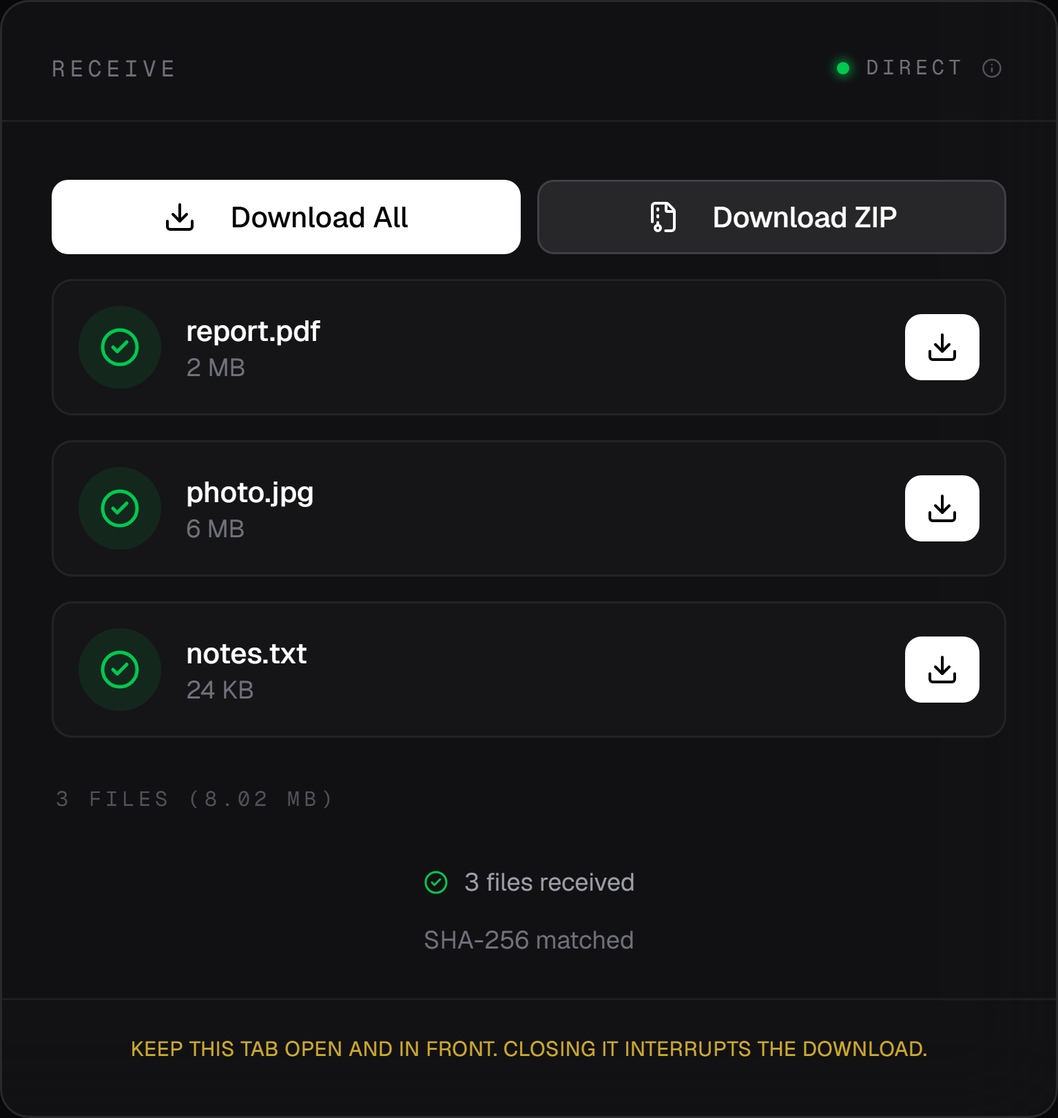
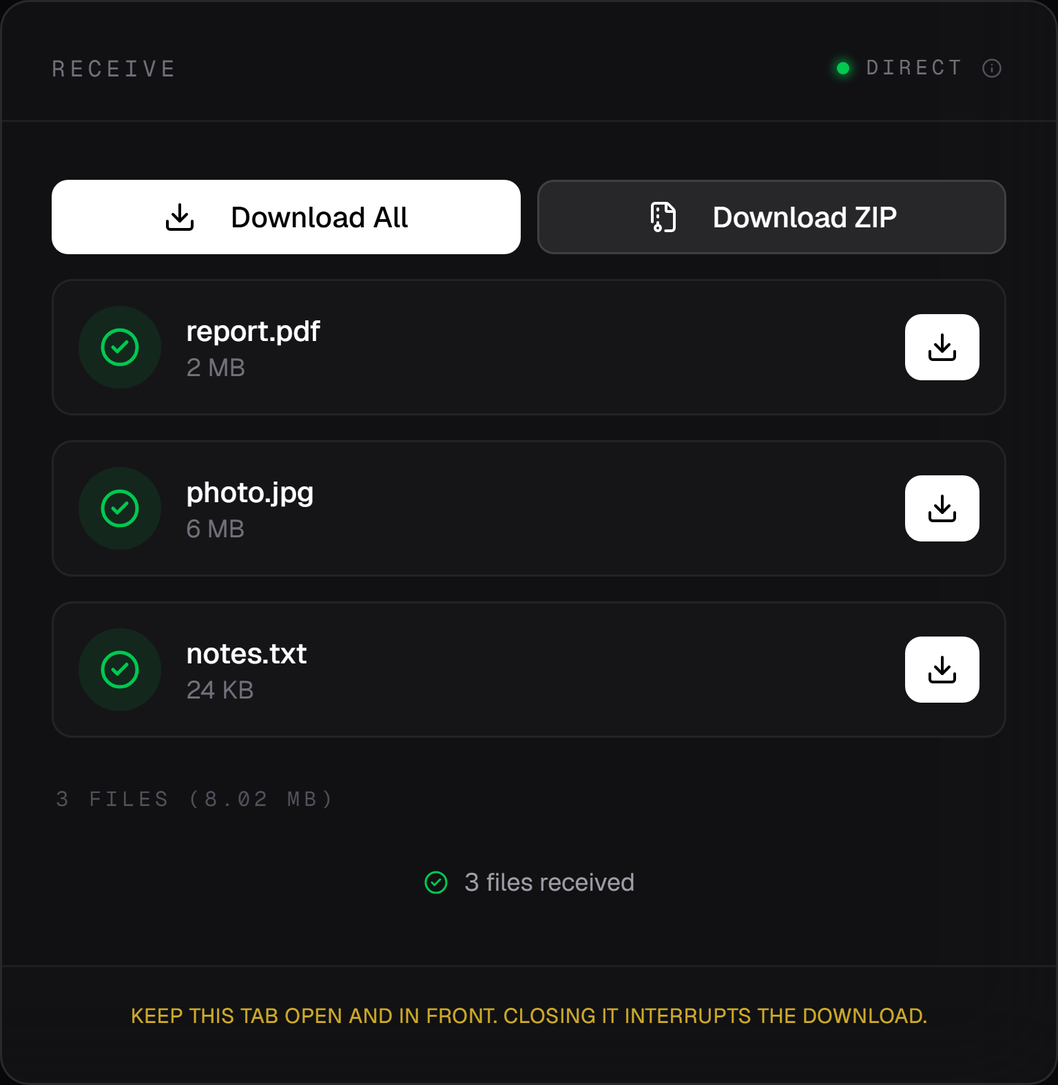
feat(client): let the check mark say SHA-256 matched on the send and receive cards (#652)
## Summary

- **The check mark carries "SHA-256 matched" on the web app's main page.** The receive card's "N files received" and the Send page's "All Files Sent!" used to draw a green check on every finished transfer, with a gray line "SHA-256 matched" under it when every file verified. They now follow Floe Desktop's rule (D-161): a green circle-check (`data-mark="verified"`) when every file's SHA-256 matched, a gray plain check (`data-mark="plain"`) when the transfer finished with some file checked by size only. The words stay for screen readers as an sr-only block of their own, outside the count line, so the audit's anchored regex on that line and its `readVerifiedLine` evidence (the card's innerText) both still read what they read before.
- **The Send page.** "All Files Sent!" turns green with its check when the receiver's `received` report lands, usually a moment after the last byte leaves; with a receiver that sends no report (floe before 1.11.0, a web app 1.11.1 or earlier) it stays gray. `verifiedLineShown` still decides it from the latched send end. Known change: under "Connection interrupted" after delivery the status has no icon, so the visible green check goes with it (the words remain for screen readers); sending.mdx and the self-hosting table say so.
[…]

diff --git a/client/components/ShareLinkPanel.tsx b/client/components/ShareLinkPanel.tsx
@@ -11,11 +11,12 @@ interface ShareLinkPanelProps {
     onToggleQr: () => void;
     status: string;
     // 'SHA-256 matched' once the receiver reported every file verified, else
-    // null. Never a digest value, and never a count (D-101).
+    // null. Never a digest value, and never a count (D-101). It picks the
+    // check beside the status and is read to screen readers; it is not drawn.
     verifiedLine: string | null;
     // How the send ended, latched by the page (lib/sendSummary.ts). The
-    // verified line follows it, because the status sentence is rewritten
-    // after a finished send and the line must not go with it.
+    // verified words follow it, because the status sentence is rewritten
+    // after a finished send and the words must not go with it.
     sendEnd: SendEnd;
 }
 
@@ -39,6 +40,15 @@ export function ShareLinkPanel({
     // A status that has ended does not spin: the spinner beside it said the
     // page was still working on something, under a banner saying it was not.
     const hasEnded = shareStatusEnded(status);
+    // Gated on the send's own latched end, not on the report alone.
+    // onDelivered fires on ANY received frame, and the session's received arm
+    // runs whenever one arrives, so a peer that confirms delivery early could
+    // otherwise mark a send while the page still says 'Sending: x', and the
+    // mark would then sit over a freshly created link until the next peer
+    // joined. The peer picks the moment, so the moment is not something to
+    // render on. Not gated on the status sentence either: see
+    // verifiedLineShown.
+    const verified = verifiedLineShown({ verifiedLine, end: sendEnd });
 
     return (
         <div className="rounded-xl bg-black/40 p-4 border border-white/[0.08] mb-4">
@@ -109,8 +119,19 @@ export function ShareLinkPanel({
             )}
 
             <div className="mt-3 flex w-full items-center justify-center gap-2 text-xs transition-colors duration-300">
+                {/* The desktop's rule (D-161): green only once the receiver
+                    reported every file's SHA-256 matched, a gray plain check
+                    for a send that finished without that report. A browser
+                    sender says "All Files Sent!" when the last byte leaves,
+                    and the report lands after it, so a current receiver turns
+                    the gray check green a moment later; an older one never
+                    does. */}
                 {isComplete ? (
-                    <CheckCircle2 className="h-3 w-3 shrink-0 text-green-400" />
+                    verified ? (
+                        <CheckCircle2 data-mark="verified" className="h-3 w-3 shrink-0 text-green-400" />
+                    ) : (
+                        <Check data-mark="plain" className="h-3 w-3 shrink-0 text-zinc-500" />
+                    )
                 ) : hasEnded ? null : (
                     <Loader2 className="h-3 w-3 shrink-0 animate-spin text-zinc-500" />
                 )}
@@ -119,27 +140,20 @@ export function ShareLinkPanel({
                     212 and 241 px in 12 px Geist, 320 to 430 wide). Two lines
                     at most, so a long name in "Sending: <name>" still stops. */}
                 <span
-                    className={`min-w-0 line-clamp-2 break-words text-balance text-center ${isComplete ? 'text-green-400 font-medium' : 'text-zinc-500'}`}
+                    className={`min-w-0 line-clamp-2 break-words text-balance text-center ${isComplete ? (verified ? 'text-green-400 font-medium' : 'text-zinc-300 font-medium') : 'text-zinc-500'}`}
                 >
                     {status}
                 </span>
             </div>
 
-            {/* A sibling of the status line, not part of it: the audit anchors
-                on the sender's completion status as its own text, and that
-                string must stay byte for byte what it is.
-
-                Gated on the send's own latched end, not on the report alone.
-                onDelivered fires on ANY received frame, and the session's
-                received arm runs whenever one arrives, so a peer that confirms
-                delivery early could otherwise paint this line while the page
-                still says 'Sending: x', and it would then sit over a freshly
-                created link until the next peer joined. The peer picks the
-                moment, so the moment is not something to render on. Not gated
-                on the status sentence either: see verifiedLineShown. */}
-            {verifiedLineShown({ verifiedLine, end: sendEnd }) && (
-                <p className="mt-1 text-center text-xs text-zinc-500">{verifiedLine}</p>
-            )}
+            {/* The words the green check stands for, for screen readers only:
+                it was a visible line until the check carried it. A sibling of
+                the status line, not part of it: the audit anchors on the
+                sender's completion status as its own text, and that string
+                must stay byte for byte what it is. It stays when a finished
+                send's status is rewritten, as the report it reads does; the
+                check goes with the status's own mark. */}
+            {verified && <p className="sr-only">{verifiedLine}</p>}
         </div>
     );
 }

diff --git a/client/e2e/partial-receive.spec.ts b/client/e2e/partial-receive.spec.ts
@@ -34,6 +34,10 @@ const MIB = 1024 * 1024;
 interface Step {
     announced: number;
     sent: number;
+    // false: the end marker carries no SHA-256, as from a floe older than
+    // 1.11.0 or a browser whose hash was not ready, so the file is checked
+    // by size only.
+    hash?: boolean;
 }
 
 interface Rig {
@@ -166,7 +170,9 @@ async function sendSteps(sender: Page, steps: Step[]): Promise<void> {
             }
             await drained(0);
             if (step.sent < step.announced) return;
-            peer.send(w.floeLoopback.endMessage(hex(await crypto.subtle.digest('SHA-256', body))));
+            peer.send(w.floeLoopback.endMessage(
+                step.hash === false ? null : hex(await crypto.subtle.digest('SHA-256', body)),
+            ));
         }
         await drained(0);
     }, { steps });
@@ -192,8 +198,10 @@ test('a sender that vanishes during file 2 of 3 does not leave the receiver look
         await expect(
             rig.receiver.getByText('Received 1 of 3 files. The transfer ended before the rest arrived.'),
         ).toBeVisible();
-        // No completion line, so no green check: the two are one element.
+        // No completion line, so no check of either kind: the two are one
+        // element.
         await expect(rig.receiver.getByText(/^\d+ files? received$/)).toHaveCount(0);
+        await expect(rig.receiver.locator('[data-mark]')).toHaveCount(0);
         // The row for the file that never finished is gone with it.
         await expect(rig.receiver.getByRole('progressbar')).toHaveCount(0);
         // What did arrive is still there to download.
@@ -214,7 +222,11 @@ test('a full receive still ends on the completion line, before and after the sen
         ]);
 
         await expect(rig.receiver.getByText(/^3 files received$/)).toBeVisible();
-        await expect(rig.receiver.getByText('SHA-256 matched', { exact: true })).toBeVisible();
+        // Every file matched: the green check in front of the count line,
+        // and the words for screen readers only (the desktop's rule).
+        await expect(rig.receiver.locator('[data-mark="verified"]')).toBeVisible();
+        await expect(rig.receiver.locator('[data-mark="plain"]')).toHaveCount(0);
+        await expect(rig.receiver.getByText('SHA-256 matched', { exact: true })).toHaveClass('sr-only');
         await expect(rig.receiver.locator('a[download]')).toHaveCount(3);
 
         // eslint-disable-next-line @typescript-eslint/no-explicit-any
@@ -227,6 +239,26 @@ test('a full receive still ends on the completion line, before and after the sen
         await expect(rig.receiver.getByText(/^3 files received$/)).toBeVisible();
         await expect(rig.receiver.getByText(/The transfer ended before the rest arrived/)).toHaveCount(0);
         expect(rig.statsReports(), 'the opted-out receiver reported stats').toBe(0);
+    } finally {
+        await rig.close();
+    }
+});
+
+test('a full receive with a file checked by size only ends on the gray check', async ({ browser }) => {
+    const rig = await openRig(browser, randomUUID());
+    try {
+        await sendSteps(rig.sender, [
+            { announced: KIB, sent: KIB },
+            { announced: KIB, sent: KIB, hash: false },
+        ]);
+
+        // Every file arrived, so the count line is the complete one, but one
+        // came with no SHA-256: the gray plain check, and no words at all.
+        await expect(rig.receiver.getByText(/^2 files received$/)).toBeVisible();
+        await expect(rig.receiver.locator('[data-mark="plain"]')).toBeVisible();
+        await expect(rig.receiver.locator('[data-mark="verified"]')).toHaveCount(0);
+        await expect(rig.receiver.getByText('SHA-256 matched', { exact: true })).toHaveCount(0);
+        await expect(rig.receiver.locator('a[download]')).toHaveCount(2);
     } finally {
         await rig.close();
     }

diff --git a/client/components/ReceiverPanel.tsx b/client/components/ReceiverPanel.tsx
@@ -1,5 +1,5 @@
 import type { RefObject } from 'react';
-import { AlertTriangle, CheckCircle2, Circle, Download, FileArchive, Loader2 } from 'lucide-react';
+import { AlertTriangle, Check, CheckCircle2, Circle, Download, FileArchive, Loader2 } from 'lucide-react';
 import { Button } from '@/components/ui/button';
 import { StatsContributionToggle } from '@/components/StatsContributionToggle';
 import { ReceivedFilesList } from '@/components/ReceivedFilesList';
@@ -29,7 +29,8 @@ interface ReceiverPanelProps {
     onSaved: (ids: readonly string[]) => void;
     listRef: RefObject<HTMLDivElement | null>;
     // 'SHA-256 matched' once every announced file arrived and every one of them
-    // verified, else null. Never a digest value (D-101).
+    // verified, else null. Never a digest value (D-101). It picks the check in
+    // front of the count line and is read to screen readers; it is not drawn.
     verifiedLine: string | null;
     // The count line and whether it may carry the check: complete, still
     // waiting on files, or ended short. See lib/receiveSummary.ts.
@@ -205,7 +206,17 @@ export function ReceiverPanel({
                 </div>
             ) : summary.kind === 'complete' ? (
                 <div className="flex w-full items-center justify-center gap-2 text-xs text-zinc-400 pt-2">
-                    <CheckCircle2 className="h-3 w-3 shrink-0 text-green-500" />
+                    {/* The desktop's rule (D-161): a green circle-check only
+                        when every file's SHA-256 matched, a gray plain check
+                        for a receive that finished with some file checked by
+                        size only. The file rows above keep their green
+                        circles: those say a file is here, not that it was
+                        hashed. */}
+                    {verifiedLine ? (
+                        <CheckCircle2 data-mark="verified" className="h-3 w-3 shrink-0 text-green-500" />
+                    ) : (
+                        <Check data-mark="plain" className="h-3 w-3 shrink-0 text-zinc-500" />
+                    )}
                     <span>{summary.text}</span>
                 </div>
             ) : summary.kind === 'waiting' && (
@@ -215,14 +226,14 @@ export function ReceiverPanel({
                 </div>
             )}
 
-            {/* Its own block element, never a second span inside the completion
-                line above: the audit's TEXT.received is the anchored regex
+            {/* The words the green check stands for, for screen readers only:
+                it was a visible line until the check carried it. Its own block
+                element, never a second span inside the completion line above:
+                the audit's TEXT.received is the anchored regex
                 /^(\d+) files? received$/ against innerText, so anything sharing
                 that line breaks it. */}
             {verifiedLine && !busy && receivedFiles.length > 0 && (
-                <div className="flex w-full items-center justify-center gap-2 text-xs text-zinc-500">
-                    <span>{verifiedLine}</span>
-                </div>
+                <p className="sr-only">{verifiedLine}</p>
             )}
         </div>
     );

diff --git a/client/e2e/cli-interop.spec.ts b/client/e2e/cli-interop.spec.ts
@@ -71,10 +71,13 @@ test('Direction 1: CLI send → browser receive (SHA-256 integrity)', async ({ b
         expect(body).not.toMatch(/did not match what was sent|could not be read/i);
 
         // And the page now says so: every handed-over file verified, so the
-        // success line shows under the completion line. The transient
-        // "Verifying file 1 of 1" is deliberately not asserted; for a 12 MB
-        // file the check is milliseconds and the assertion would flake.
-        await expect(page.locator('body')).toContainText('SHA-256 matched', { timeout: 15_000 });
+        // completion line carries the green check, with the words for screen
+        // readers only. The transient "Verifying file 1 of 1" is deliberately
+        // not asserted; for a 12 MB file the check is milliseconds and the
+        // assertion would flake.
+        await expect(page.locator('[data-mark="verified"]')).toBeVisible({ timeout: 15_000 });
+        await expect(page.locator('[data-mark="plain"]')).toHaveCount(0);
+        await expect(page.locator('main')).toContainText('SHA-256 matched');
 
         // The page's acks promise `received` (SG-01), so the CLI waits for
         // that word, not a drained buffer, and ends on it in success with the
@@ -132,11 +135,22 @@ test('Direction 2: browser send → CLI receive (SHA-256 integrity)', async ({ b
         // The CLI receiver's `received` frame carries verified=1 and now
         // reaches the page, because the session listener outlives onAllSent
         // (F-SHA-4). Before this the finally closed the channel first. The
-        // line follows the delivered send, not the status sentence, so it
-        // is there under all three endings. It used to be gated on the two
-        // sentences that say the send is complete, and under 'Connection
-        // interrupted' it went away while the rows above still read sent.
+        // words follow the delivered send, not the status sentence, so they
+        // are there (for screen readers) under all three endings. They used
+        // to be gated on the two sentences that say the send is complete,
+        // and under 'Connection interrupted' they went away while the rows
+        // above still read sent.
         await expect(page.getByText('SHA-256 matched', { exact: true })).toBeVisible({ timeout: 15_000 });
+        // A verified send never shows the gray check, whichever ending
+        // stayed. The green one sits beside the two endings that say the
+        // send is complete; 'Connection interrupted' has no mark of its own.
+        await expect(page.locator('[data-mark="plain"]')).toHaveCount(0);
+        await expect
+            .poll(async () => {
+                if (/Connection interrupted/.test(await page.locator('main').innerText())) return 'interrupted';
+                return (await page.locator('[data-mark="verified"]').count()) === 1 ? 'verified' : 'none';
+            })
+            .not.toBe('none');
         const ending = (await page.locator('body').innerText()).match(
             /All Files Sent!|Transfer complete|Connection interrupted/
         );

diff --git a/client/lib/sendSummary.ts b/client/lib/sendSummary.ts
@@ -76,18 +76,21 @@ export function shareStatusEnded(status: string): boolean {
 }
 
 /**
- * Whether "SHA-256 matched" shows under the status line.
+ * Whether the send counts as verified: the status line's check is the green
+ * circle-check rather than the gray plain one, and "SHA-256 matched" is read
+ * to screen readers under it.
  *
  * It is the receiver's report about a send this page delivered, so it follows
  * the latched end of the send and not the status sentence. Gated on the
- * sentence, the line vanished when a finished send's status became
- * "Connection interrupted" (the other device dropped off the network after
- * every byte had left), while the rows above still read sent.
+ * sentence, the words (a visible line then) vanished when a finished send's
+ * status became "Connection interrupted" (the other device dropped off the
+ * network after every byte had left), while the rows above still read sent.
+ * The check itself belongs to the status's own mark and goes with it there.
  *
  * `delivered` is this page's own engine saying every file left (onAllSent).
  * The report alone is not enough: a peer picks the moment it sends one, and a
- * peer that confirmed early would otherwise paint the line over a send still
- * in progress, or over a fresh link waiting for its next recipient.
+ * peer that confirmed early would otherwise mark a send still in progress, or
+ * a fresh link waiting for its next recipient.
  */
 export function verifiedLineShown(input: { verifiedLine: string | null; end: SendEnd }): boolean {
     return input.verifiedLine !== null && input.end === 'delivered';

diff --git a/client/lib/verifiedLine.test.ts b/client/lib/verifiedLine.test.ts
@@ -1,4 +1,6 @@
 import { describe, it, expect } from 'vitest';
+import { readFileSync } from 'node:fs';
+import { fileURLToPath } from 'node:url';
 import { verifiedLine, VERIFIED_LINE } from './verifiedLine';
 
 describe('verifiedLine', () => {
@@ -24,4 +26,23 @@ describe('verifiedLine', () => {
         // A partial receive proves nothing about the files that never came.
         expect(verifiedLine([{ verified: true }], 2)).toBe(null);
     });
+});
+
+// The check mark carries the words on both cards (the desktop's rule, D-161):
+// a green circle-check when every file matched, a gray plain check when the
+// transfer finished without that, and the words for screen readers only. The
+// e2e specs find the two marks by data-mark.
+describe('the check carries the words on both cards', () => {
+    const read = (rel: string) => readFileSync(fileURLToPath(new URL(rel, import.meta.url)), 'utf8');
+
+    for (const card of ['ReceiverPanel.tsx', 'ShareLinkPanel.tsx']) {
+        it(`${card} draws a green or a gray check and never the words`, () => {
+            const src = read(`../components/${card}`);
+            expect(src).toMatch(/<CheckCircle2 data-mark="verified" className="[^"]*text-green-[45]00"/);
+            expect(src).toMatch(/<Check data-mark="plain" className="[^"]*text-zinc-500"/);
+            // The words are rendered in exactly one place, and it is sr-only.
+            expect(src.match(/\{verifiedLine\}/g)).toHaveLength(1);
+            expect(src).toContain('<p className="sr-only">{verifiedLine}</p>');
+        });
+    }
 });

diff --git a/client/components/layout/FAQSection.tsx b/client/components/layout/FAQSection.tsx
@@ -231,10 +231,10 @@ export const FAQSection = () => {
                             than 0.3.0 provides none, and a browser sending a very large file can
                             finish sending it before its SHA-256 is ready, and then ends that file
                             without one. A file that does not match is discarded instead of saved. When
-                            every file matched, the browser and the CLI show
-                            &quot;SHA-256 matched&quot; and Floe Desktop shows a green check mark.
-                            Without it, at least one file was checked by size only, or the transfer stopped
-                            partway. The sender sees the mark only when the receiver reports back
+                            every file matched, the CLI shows &quot;SHA-256 matched&quot;, and the
+                            browser and Floe Desktop show a green check mark. A gray check mark, or
+                            none, means at least one file was checked by size only, or the transfer
+                            stopped partway. The sender sees the mark only when the receiver reports back
                             that every file matched. A match means the file arrived intact, not that it
                             is safe to open: Floe does not scan files for malware. What the check
                             proves is in{' '}

diff --git a/client/lib/verifiedLine.ts b/client/lib/verifiedLine.ts
@@ -1,13 +1,15 @@
-// The web success line for a verified transfer, D-101: 'SHA-256 matched' and
-// never a digest value. Pure, with a .test.ts sibling, the receiverClose.ts
-// pattern. `verified` is a LOCAL boolean per file (receiver.ts sets it from its
+// The web's words for a verified transfer, D-101: 'SHA-256 matched' and never
+// a digest value. Since the check mark took over from the visible line (the
+// desktop's rule, D-161), the words pick a green circle-check over a gray
+// plain one and are read to screen readers only. Pure, with a .test.ts
+// sibling, the receiverClose.ts pattern. `verified` is a LOCAL boolean per file (receiver.ts sets it from its
 // own compare, sender.ts from verifiedCountOf's range check), never a peer
 // number.
 export const VERIFIED_LINE = 'SHA-256 matched';
 
 /**
- * The line when every announced file arrived and every one of them verified,
- * else null. A partial receive shows nothing: a count below the announced total
+ * The words when every announced file arrived and every one of them verified,
+ * else null. A partial receive gets nothing: a count below the announced total
  * has not proved anything about the files that never came.
  */
 export function verifiedLine(

diff --git a/client/lib/sendSummary.test.ts b/client/lib/sendSummary.test.ts
@@ -245,8 +245,12 @@ describe('the verified line follows the send, not the status sentence', () => {
 
     it('is how the panel decides, and the page hands the panel the latched end', () => {
         const panel = read('../components/ShareLinkPanel.tsx');
-        expect(panel).toContain('verifiedLineShown({ verifiedLine, end: sendEnd })');
+        expect(panel).toContain('const verified = verifiedLineShown({ verifiedLine, end: sendEnd });');
         expect(panel).not.toContain('verifiedLine && isComplete');
+        // The same answer picks the status check and the status color, so a
+        // green "All Files Sent!" never sits beside the gray check.
+        expect(panel).toContain("isComplete ? (\n                    verified ? (");
+        expect(panel).toContain("verified ? 'text-green-400 font-medium' : 'text-zinc-300 font-medium'");
         const page = read('../components/P2PTransfer.tsx');
         expect(page).toMatch(/<ShareLinkPanel[\s\S]*?sendEnd=\{sendEnd\}/);
     });

diff --git a/.claude/skills/docs-verify/references/claim-map.md b/.claude/skills/docs-verify/references/claim-map.md
@@ -32,6 +32,7 @@ The map names where a value is stated; grep the old literal repo-wide before fin
 
 - `validSHA256Hex` and `parseEnd` (cli/engine/transfer/control.go) define the wire digest (64 lowercase hex) and the rule that a present but unreadable digest refuses the file; `normalizeSha256` and `verifiedCountOf` (client/lib/transfer/protocol.ts) are the browser twins, and `endMessage` emits the key only for a valid digest.
 - The `Verified` row, "SHA-256 matched", comes from the summary in `ReceiveFilesWithOptions` (receiver.go: `verifiedCount == filesReceived && filesReceived > 0`) and `SendFilesWithOptions` (sender.go: `hasVerified && verified == len(files)`). The digest is taken while writing, never re-read from disk, and on the sender the row is the receiver's report rather than a proof. A mismatched or unreadable digest deletes the .part before the rename and refuses with `CodeHashMismatch`.
+- The web main page's mark: `verifiedLine` (client/lib/verifiedLine.ts, the receiver's own per-file compare) and `verifiedLineShown` (client/lib/sendSummary.ts, the receiver's report on a send this page delivered) pick the green `CheckCircle2` (`data-mark="verified"`) over the gray plain `Check` (`data-mark="plain"`) in client/components/ReceiverPanel.tsx (in front of "N files received") and ShareLinkPanel.tsx (beside "All Files Sent!" or "Transfer complete", whose text turns green with it). The words "SHA-256 matched" are sr-only, never drawn. A browser sender's check is gray until the `received` frame lands after "All Files Sent!". The /r page and the CLI still print their sentences. Tests: client/lib/verifiedLine.test.ts, client/lib/sendSummary.test.ts, client/e2e/partial-receive.spec.ts (verified and plain), client/e2e/cli-interop.spec.ts.
 - `FileDone` and `OnFileDone` (receiver.go) are what a GUI learns per committed file.
 - Whether a sender hashes is decided by `sendFileHashes` (cli/engine/transfer/sender.go, P0-22) and `SEND_FILE_HASHES` (client/lib/transfer/protocol.ts, P0-21b), so docs say "when the sender provides one"; both receivers report `verified` on their `received` frame (the browser through `receivedMessage` in `confirmBatch`, client/lib/transfer/receiver.ts, since SG-01), always present and 0 when no file matched.
 - The browser's two hash waits (client/lib/transfer/protocol.ts): `hashBoundMs` (size at 10 MB/s plus 30 s), `END_DIGEST_WAIT_MS` (a sender sends `end` without `sha256` once it has waited this long after the last chunk, under a Go receiver's `receiveStallTimeout`) and `POST_END_HASH_WAIT_MS` (a receiver with more files to come keeps a file unverified past it, under the senders' 120 s ack wait; the last file keeps `hashBoundMs`). `TestBrowserHashWaitsFitGoClocks` (cli/engine/transfer/deadlines_test.go) pins the Go side of both. Docs: docs/how-it-works/file-checks.mdx "When a browser runs out of time" (the reader-facing home of both waits), docs/reference/transfer-protocol.mdx (the `end` section and the paragraph under "Timeouts"), docs/reference/limits.mdx "Timeouts" (the SHA-256 row), docs/changelog.mdx (the Web app SHA-256 bullet). The pages that used to repeat the waits (docs/how-it-works/known-limitations.mdx, docs/web-app/receiving.mdx, docs/cli/receive.mdx, docs/desktop/request-links.mdx) now give a clause and link to file-checks; keep them that way.

diff --git a/.claude/skills/untrusted-peer-data/references/consumer-map.md b/.claude/skills/untrusted-peer-data/references/consumer-map.md
@@ -272,7 +272,7 @@ scripts/check-consumers.mjs reads only the table under `## Map`. Its header must
 | confirms, received, verified | `client/lib/transfer/receiverConfirms.test.ts` | `describe('receiver: confirms delivery to the sender'` | test (the browser receiver's half of FT-GO-CONFIRMS, SG-01) | hand-written metadata and end frames, with matching, missing and wrong digests, through the real createReceiver; asserts the acks' confirms, the received frame's exact bytes and local count, the own-count trigger, the rollback lever off, a throwing send, and that a broken part stops the transfer before any hand-over; renders, logs and stores nothing (the test-file exception) | yes |
 | verified | `client/lib/transfer/sender.ts` | `onDelivered` | callback (numbers) | files is the local count, verified is verifiedCountOf's value or null, allVerified is files > 0 and verified === files; P2PTransfer.tsx wires it and stores only allVerified, so the count never reaches a render; the request link visitor reads its verified count here too, and a range check that returns null is what keeps an over-claim from reading as all matched, which a clamp would not | yes |
 | code | `client/lib/senderStop.ts` | `function describeSenderStop(` | screen (error banner) | compared with the single literal hash-mismatch and mapped to one fixed sentence, else null so today's onError wording stands; saved and files are received and deliberately unused, and so is rangeOverlaps, which reaches here from S1-WEB-07 on because the caller spreads the whole stop; no peer text, file name or digest is in the sentence | yes |
-| verified | `client/lib/verifiedLine.ts` | `function verifiedLine(` | screen (success line) | reads only the LOCAL per-file boolean receiver.ts set from its own compare; returns one fixed string or null, and no count reaches a render | no |
+| verified | `client/lib/verifiedLine.ts` | `function verifiedLine(` | screen (success check) | reads only the LOCAL per-file boolean receiver.ts set from its own compare; returns one fixed string or null, which picks the green circle-check over the gray plain one and is read to screen readers only; no count reaches a render | no |
 | code, saved | `client/components/P2PTransfer.tsx` | `onStopped` | screen, telemetry | code arrives through refusalCodeOf and is compared with one literal inside describeSenderStop; saved is unused; the whole stop is spread as { ...stop, files }, so the rangeOverlaps boolean S1-WEB-07 added travels in too and is unused here as well; the rendered text is senderStop.ts's fixed sentence, and the telemetry event carries the local file count and byte total with reason peer-reason, never a peer value | yes |
 | verified | `client/components/P2PTransfer.tsx` | `onDelivered` | screen | reduced to the boolean allVerified inside the callback; the number is never stored and never rendered | yes |
 | index, total | `client/components/P2PTransfer.tsx` | `onVerifying` | screen (status line) | the sender's announced 1-based position and count, rendered as digits in the fixed template Verifying file N of M and used nowhere else | yes |

diff --git a/.claude/skills/transfer-audit/references/matrix.md b/.claude/skills/transfer-audit/references/matrix.md
@@ -407,7 +407,7 @@ records `local HEAD <sha>`.
 | W receiver       | short         | `Received N of M files. The transfer ended before the rest arrived.` (FAIL `receive-short` at once); `Received N of M files.` followed by `Waiting for the next file` (through 2a6e273) or `Waiting for the rest` (later main) is the same key only in the last 2 s of the done budget | `client/lib/receiveSummary.ts` `receiveSummary` |
 | W receiver       | no sender     | `The sender is not connected`, held for 20 s without a break, is FAIL `sender-absent`; the page can clear it by itself | `client/components/ReceiverPanel.tsx` (the handshake checklist); `client/lib/roomSeat.ts` `seatStep` |
 | W sender         | rejoin        | `Link stopped working` (FAIL `rejoin-failed` at once); `Reconnecting to your link` (the same key only in the last 2 s of a connect or done budget) | `client/lib/rejoinRetry.ts` `REJOIN_FAILED_STATUS`, `REJOINING_STATUS` |
-| W either         | verified      | `SHA-256 matched`, its own line under the completion line (a sender gets it after `All Files Sent!`); evidence only, never judged | `client/lib/verifiedLine.ts` `VERIFIED_LINE` |
+| W either         | verified      | `SHA-256 matched`, its own screen-reader-only line under the completion line, which the card's innerText still yields; on screen the green circle-check `[data-mark="verified"]` stands for it, and a finish without it draws the gray `[data-mark="plain"]` (a sender gets it after `All Files Sent!`); evidence only, never judged | `client/lib/verifiedLine.ts` `VERIFIED_LINE`; `client/components/ReceiverPanel.tsx`, `ShareLinkPanel.tsx` |
 | W pill           | route         | `Direct`, `Relay`, `Ready`, `Offline` (textContent; rendered uppercase by CSS)                                                                                                                                                            | `client/components/ConnectionStatusBadge.tsx`                           |
 | W error          | banners       | `Link Invalid` heading; `Too many refreshes. Reconnecting`; `Connection failed. This link was made with Network relay fallback off. Reload the page, add the files again, leave it on, and share the new link.`; `Transfer blocked. Relay limit exceeded.`; `Peer disconnected. Waiting for reconnection` | `client/components/P2PTransfer.tsx` (the `setError` calls and the error banner); the `Too many refreshes` line is `REFUSAL_BANNER` in `client/lib/refusalBanner.ts` |
 | D sender         | staged        | button name `Send 1 item` or `Send N items`                                                                                                                                                                                               | `desktop/frontend/src/App.tsx` (the primary send button)                                         |
